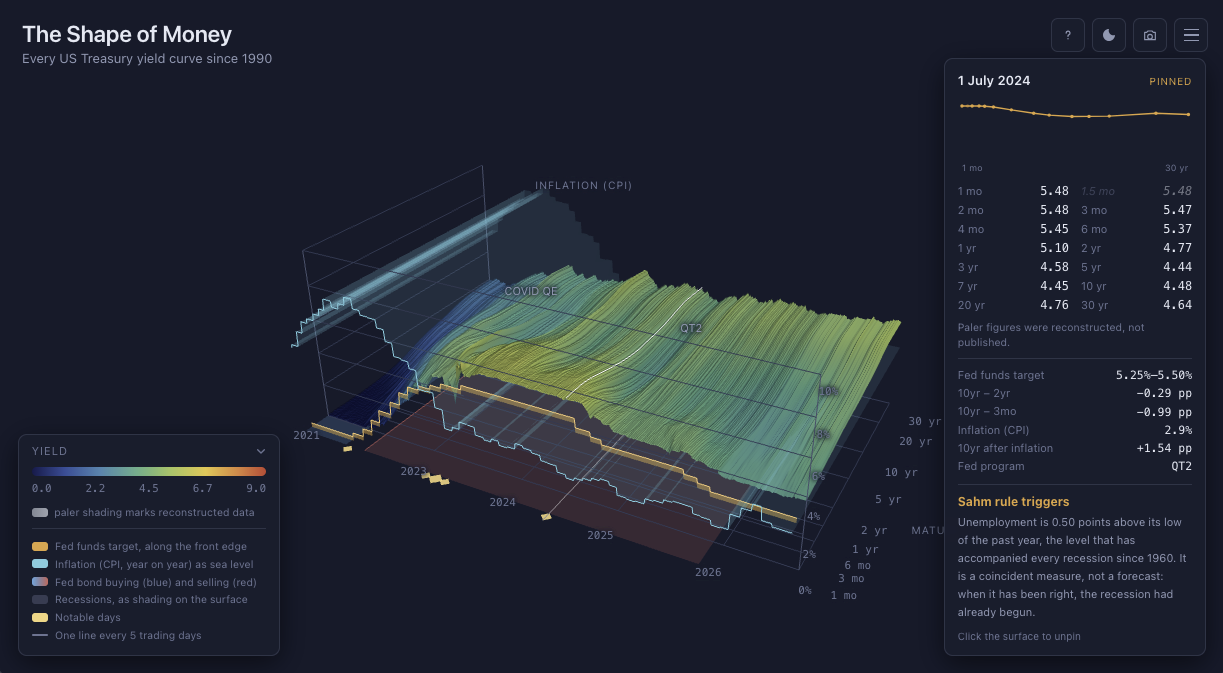
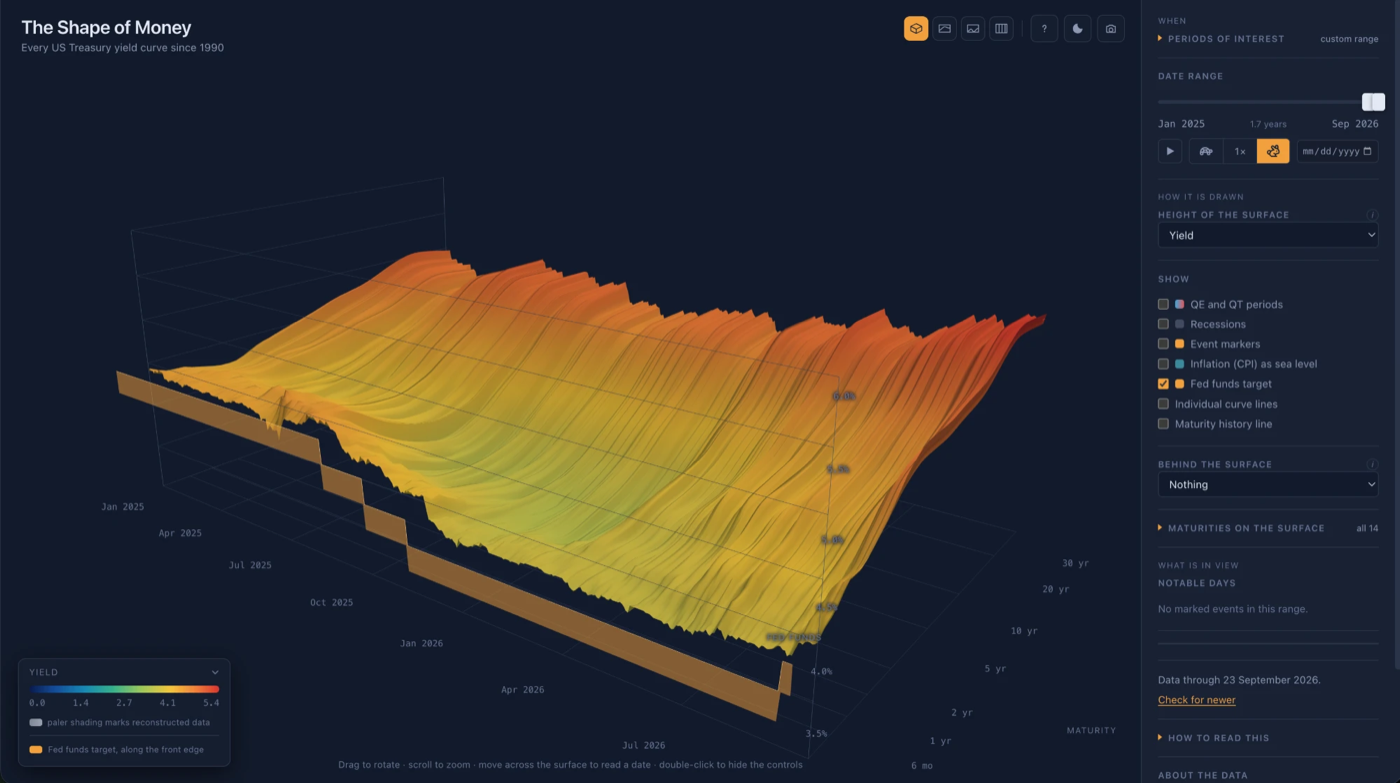
New social card, showing the panel and the Fed funds ribbon
Replaces the screenshot with the current design: the reordered panel,
the camera glyphs on the canvas, and the Fed funds ribbon that is now
on by default, which the old card predated.

Resized on the way in. The supplied file was 2000px and converted to
a 1.0MB PNG, three times the card it replaced, for something scrapers
fetch on every share. At 1400px it is 575KB and still well above the
size any feed renders it at.

Declared dimensions corrected to 1400x783, and both alt texts
rewritten for this image rather than the last one. The three steps
down in the gold ribbon are the cuts of September, October and
December 2025, and the step back up is September 2026; I checked
those against the data rather than counting pixels.

Nothing regenerates this file: build_data.py no longer calls the
generator and the weekday job only stages data and docs/data.

diff --git a/docs/index.html b/docs/index.html
@@ -16,9 +16,9 @@
 <meta property="og:title" content="The Shape of Money">
 <meta property="og:description" content="Every US Treasury yield curve since 1990, in three dimensions, with the Fed funds rate, the Federal Reserve's balance sheet, the S&amp;P 500 and recessions.">
 <meta property="og:image" content="https://yieldcurve3d.com/preview.png">
-<meta property="og:image:width" content="1223">
-<meta property="og:image:height" content="673">
-<meta property="og:image:alt" content="US Treasury yields from 2021 to 2026 as a three-dimensional surface. The near-zero blue of 2021 climbs into the yellow-green plateau of the hiking cycle, the Fed funds target steps along the front edge, and a pale sheet of consumer price inflation cuts through the surface.">
+<meta property="og:image:width" content="1400">
+<meta property="og:image:height" content="783">
+<meta property="og:image:alt" content="US Treasury yields from January 2025 to September 2026 as a three-dimensional surface, orange along the thirty-year edge and yellow at the short end. A gold ribbon on the front edge is the Fed funds target, stepping down through three cuts in late 2025.">
 <meta name="twitter:card" content="summary_large_image">
 <meta name="twitter:title" content="The Shape of Money">
 <meta name="twitter:description" content="Every US Treasury yield curve since 1990, in three dimensions.">

diff --git a/README.md b/README.md
@@ -7,17 +7,14 @@ programs marked on the floor.
 
 Live at **[yieldcurve3d.com](https://yieldcurve3d.com)**.
 
-![US Treasury yields from 2021 to 2026 drawn as a 3D surface. Time runs left to
-right, maturity recedes from one month at the front edge to thirty years at the
-back, and height is the yield. The near-zero blue trough of 2021 climbs into
-the yellow-green plateau of the hiking cycle and stays there. An orange ribbon
-along the front edge is the Fed funds target, stepping up through 2022 and back
-down from 2024. A pale blue sheet floats through the surface at the rate of
-consumer price inflation, so the stretch of surface below it is where lending
-lost money in real terms. Colored bands on the floor mark COVID-era bond buying
-and the selling that followed. The readout is pinned on 1 July 2024, the day
-the Sahm rule
-triggered.](docs/preview.png)
+![US Treasury yields from January 2025 to September 2026 drawn as a 3D
+surface. Time runs from the upper left down toward the viewer, maturity
+recedes to the right from six months to thirty years, and height is the
+yield. The long end is orange and the short end yellow, so the curve slopes
+upward. A gold ribbon along the front edge is the Fed funds target, stepping
+down through three cuts in late 2025 and back up once in September 2026. The
+control panel is open on the right, with every layer switched off except the
+Fed funds ribbon.](docs/preview.png)
 
 It runs entirely in the browser. Visitors need nothing installed. Hosting costs
 nothing.
